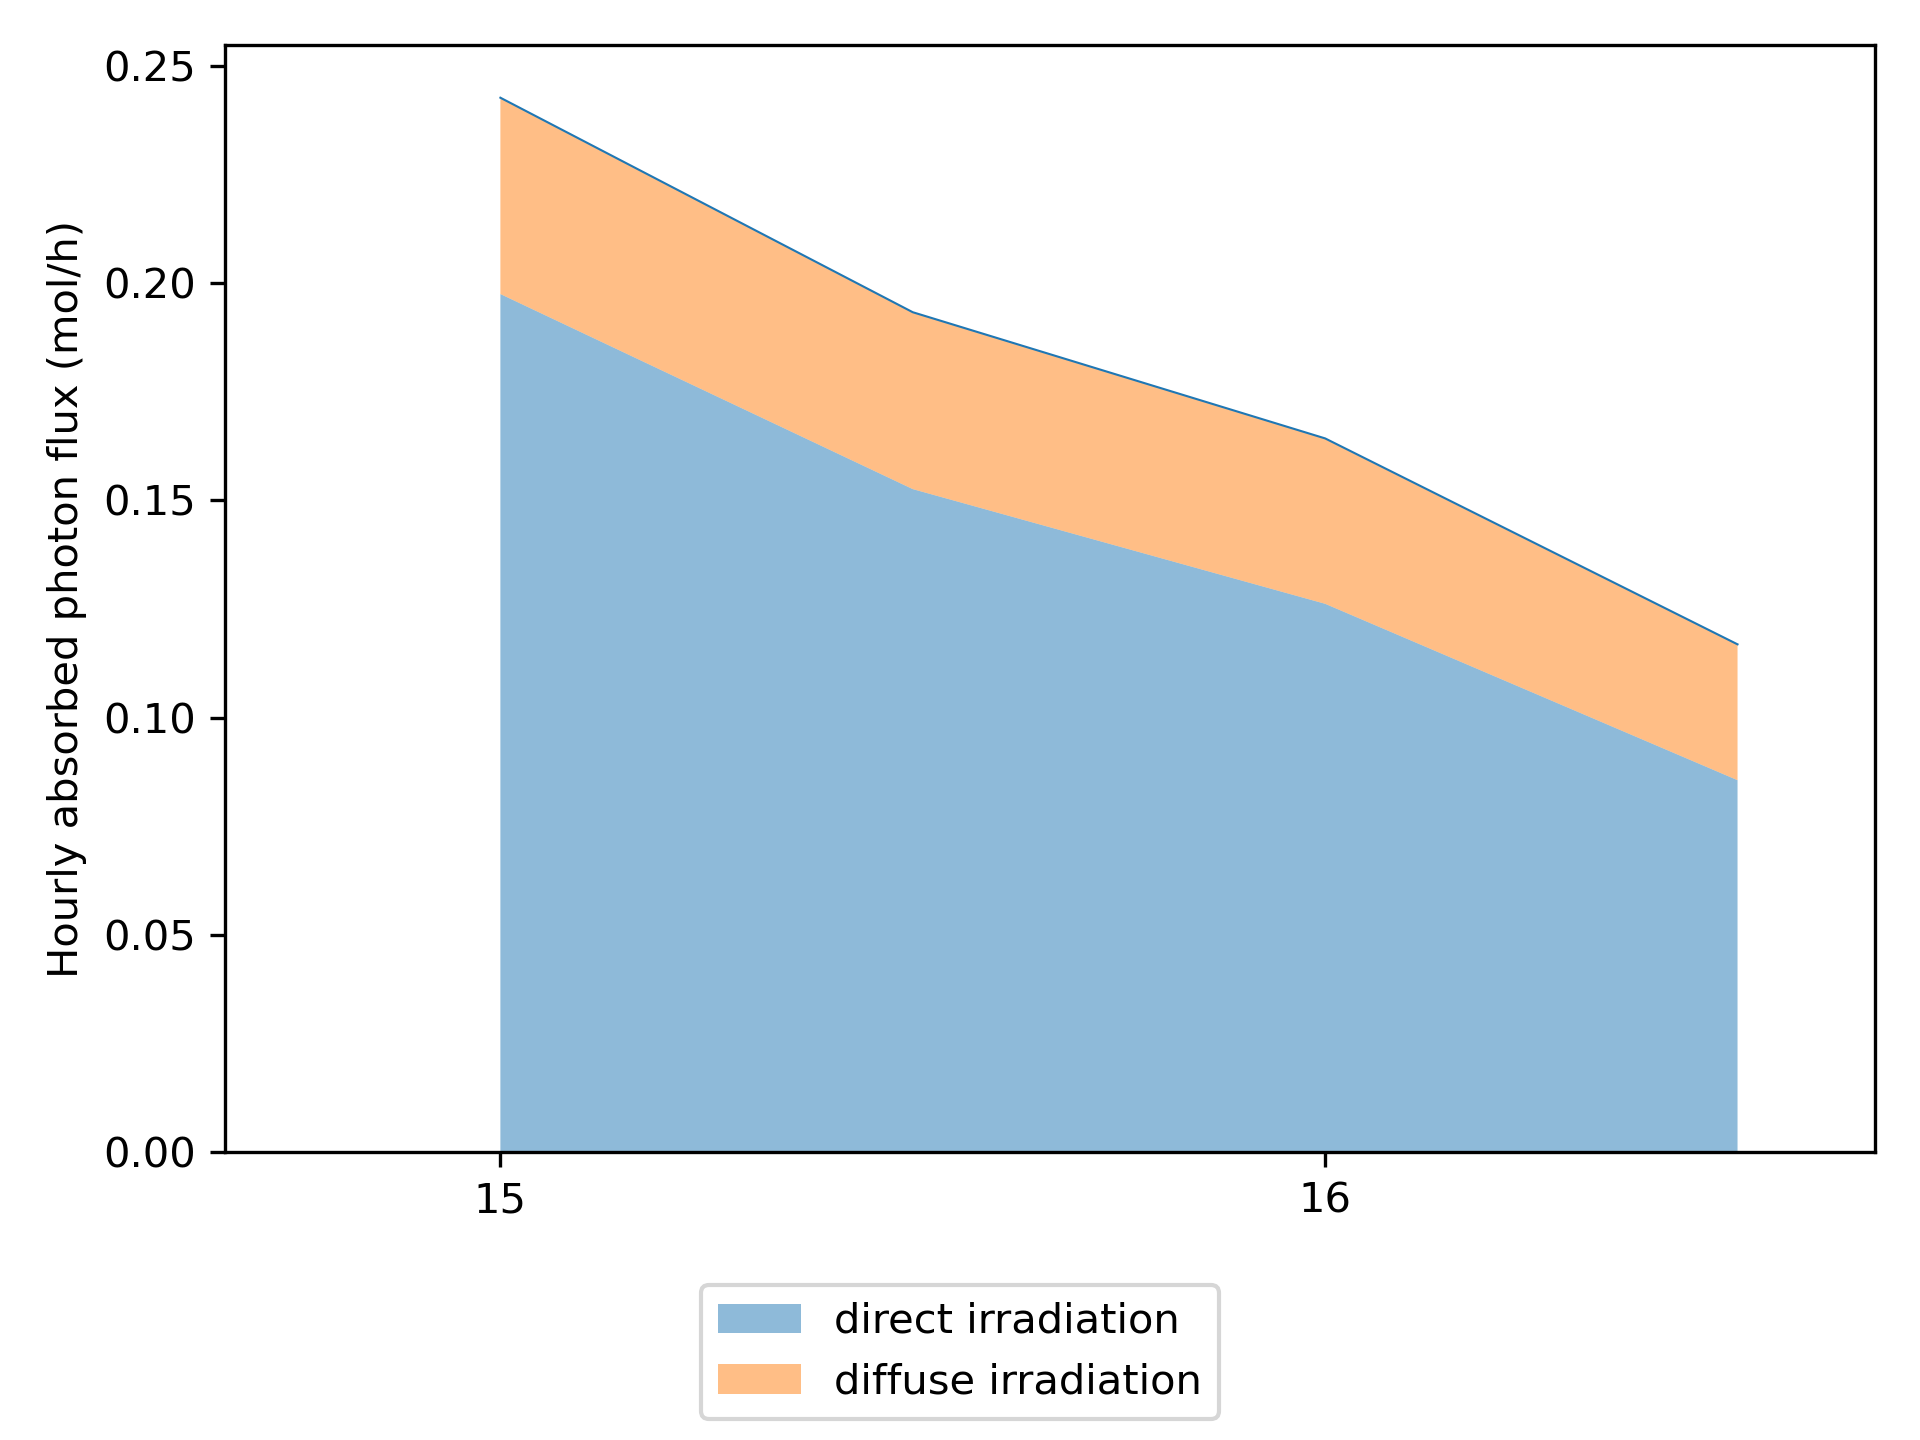
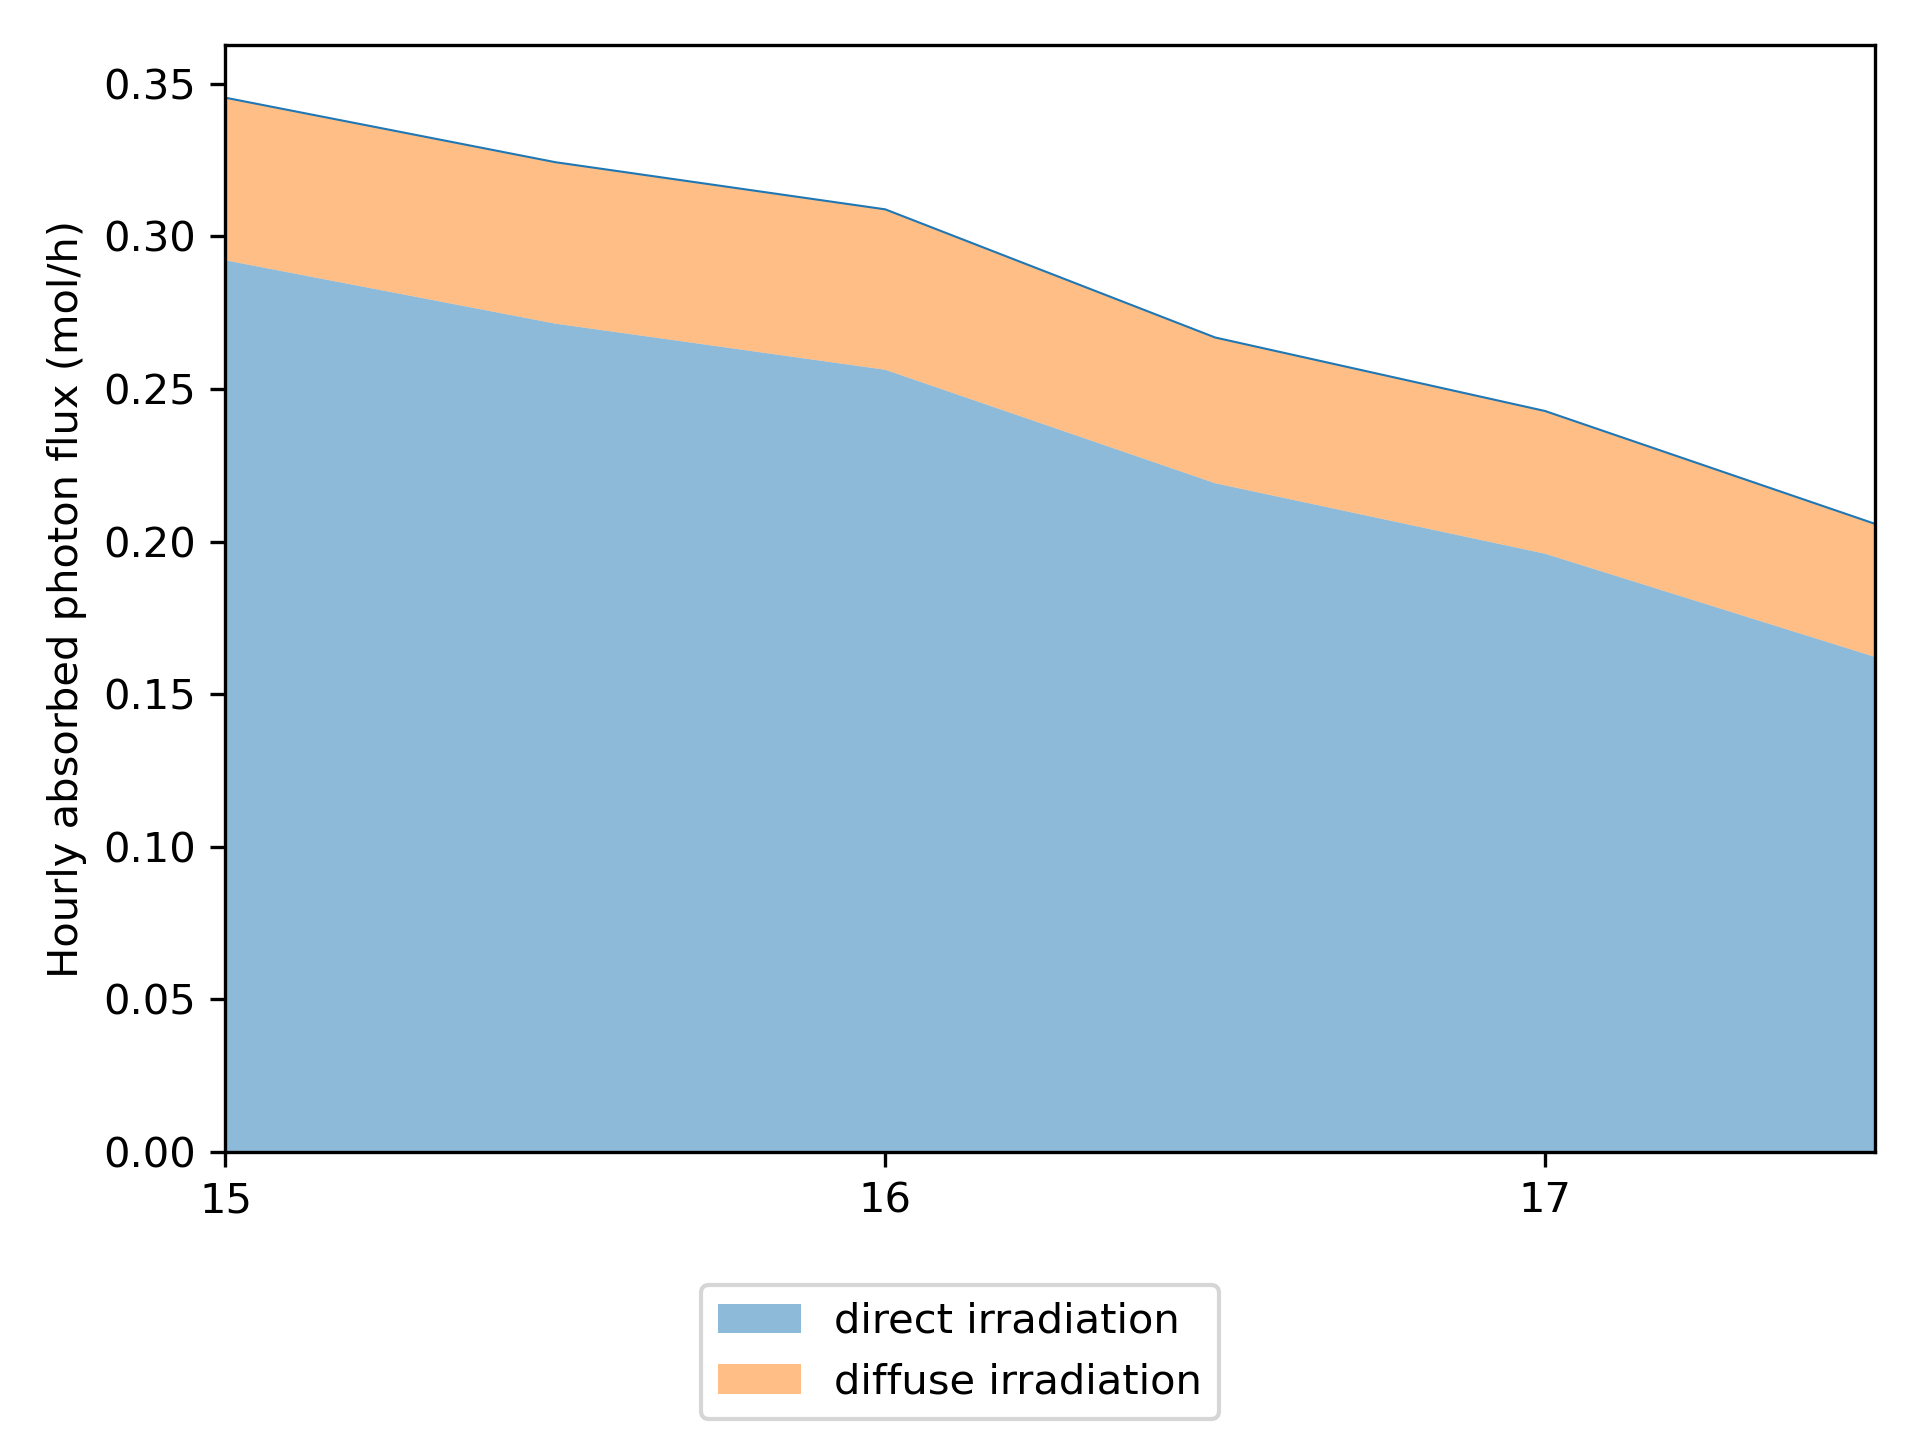
Update results with right timezone

diff --git a/miniplant/experimental_comparison/experimental_conditions_results_analysis.py b/miniplant/experimental_comparison/experimental_conditions_results_analysis.py
@@ -11,6 +11,7 @@ from matplotlib.dates import DateFormatter
 import matplotlib.ticker as mtick
 
 from miniplant.experimental_comparison.simulate_experimental_conditions import XP_END, XP_START
+from miniplant.locations import EINDHOVEN
 
 GOLDEN_RATIO = (1 + 5 ** 0.5) / 2
 
@@ -39,7 +40,7 @@ ax.set_ylabel("Hourly absorbed photon flux (mol/h)")
 ax.set_xlim([XP_START, XP_END])
 
 # Date formatter to only show the month from the datetime object, and locator to show every month
-date_form = DateFormatter("%H")  #  Show hour of the day
+date_form = DateFormatter("%H", tz=EINDHOVEN.pytz)  #  Show hour of the day
 # Location comparison
 # ax[ix].set_title(caption+f"TOT: {tot:.0f}")
 # Hardcoded titles
